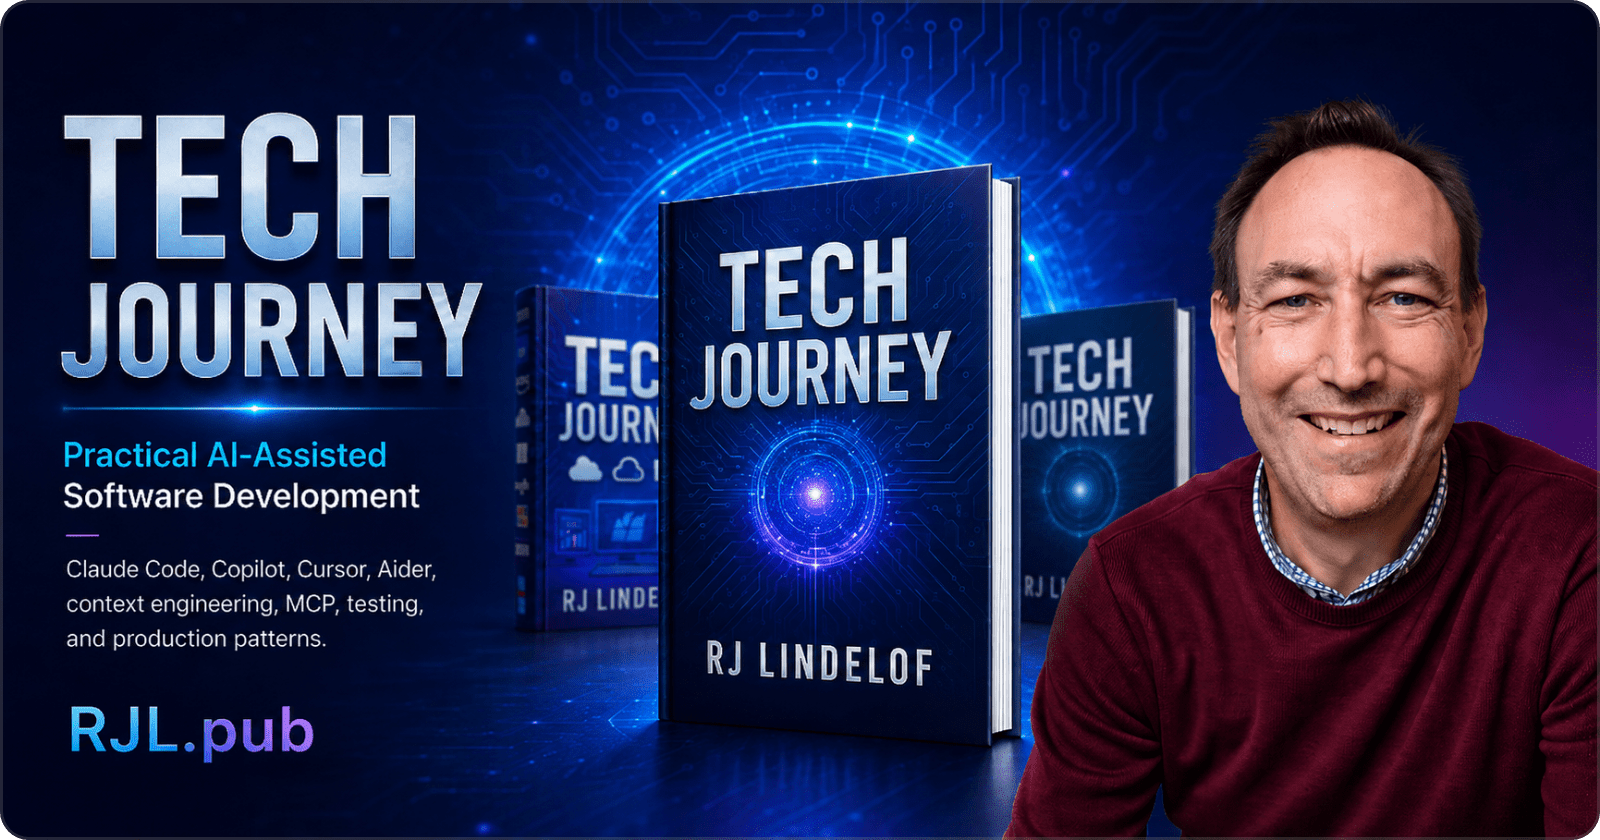
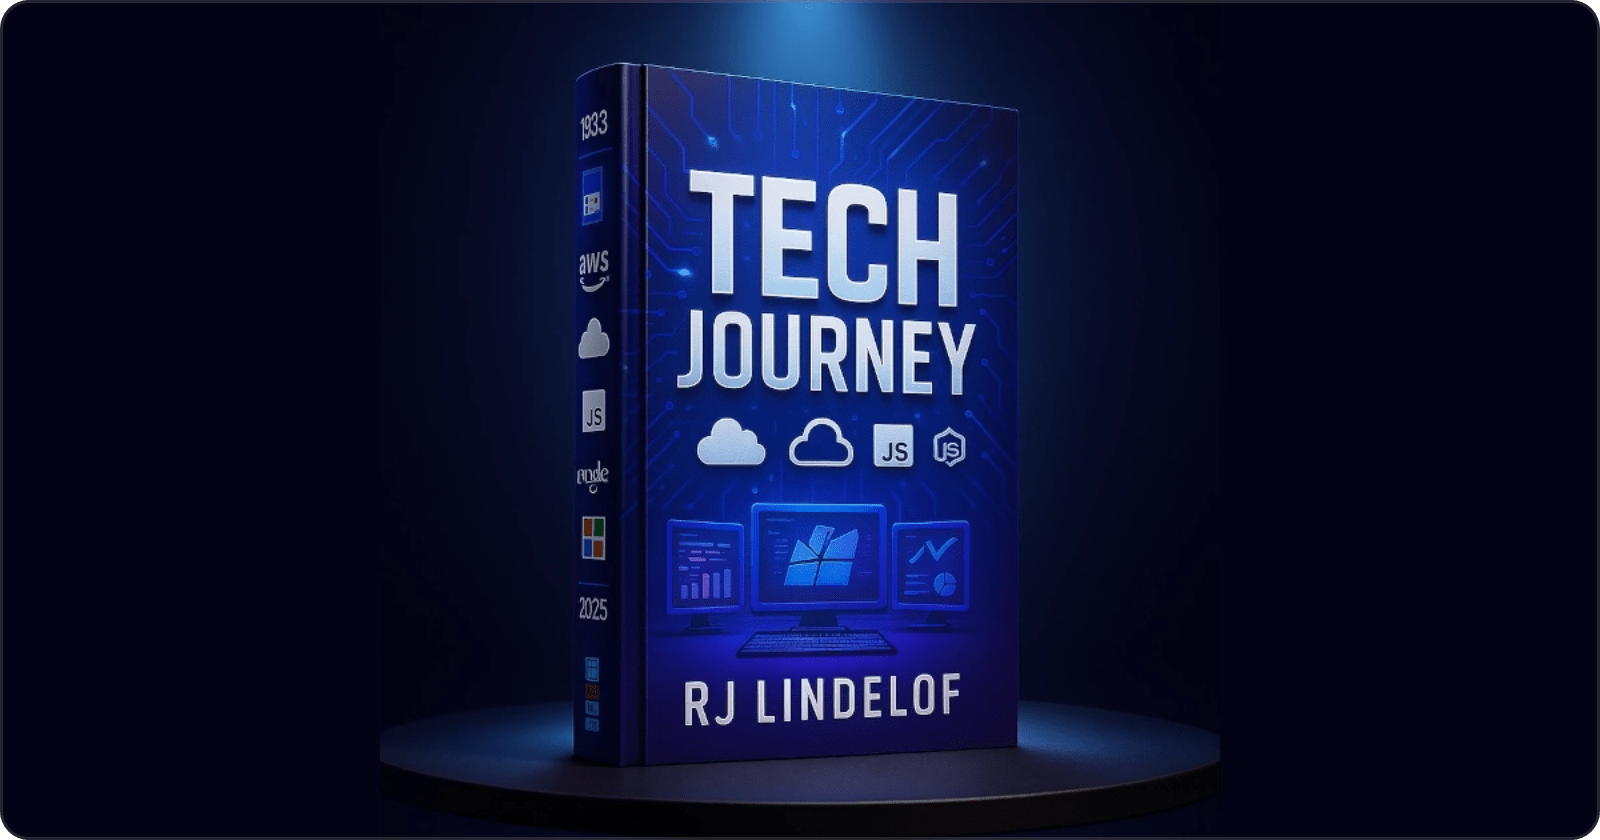
[1.0.3] - 10-08-2026 at 6:21pm
- Dropped a vendor-specific AI coding tool from the intro's CI/CD tool list and from the Tech Journey blurb, so the profile reads as multi-model rather than tied to one vendor.
- Re-rendered the Tech Journey feature card from RJL.pub's book-cover preview instead of its social preview, whose baked-in tagline named that same tool.

diff --git a/README.md b/README.md
@@ -11,7 +11,7 @@
 
 :fire: 20+ years scaling SaaS platforms across Healthcare, EdTech, and regulated B2B. 13 years as an IC before management (Java, JavaScript, Node, .NET, Delphi, C++) and I still spin up local dev environments, review PRs, and prototype alongside my teams. Player-coach by conviction, not by title.
 
-:zap: I move AI from pilot to production as a delivery system, not a sandbox toolset. Claude Code, GitHub Copilot, AWS Kiro, and GitHub Actions run as first-class CI/CD stages. Multi-model fluency, no single-vendor dependency. Recent operating indicators from leading SaaS engineering through an AI-native transformation: 5x deploy frequency, 23% PR throughput gain, code coverage from under 10% to 40% with no dedicated QA team, new-engineer onboarding cut 70%.
+:zap: I move AI from pilot to production as a delivery system, not a sandbox toolset. GitHub Copilot, AWS Kiro, and GitHub Actions run as first-class CI/CD stages. Multi-model fluency, no single-vendor dependency. Recent operating indicators from leading SaaS engineering through an AI-native transformation: 5x deploy frequency, 23% PR throughput gain, code coverage from under 10% to 40% with no dedicated QA team, new-engineer onboarding cut 70%.
 
 :shield: Compliance under regulated weight: HIPAA, SOC 2, ISO 27001, HL7/FHIR, Epic EMR integration. Federal-grade reliability shipped to the VA and the White House Medical Unit.
 
@@ -43,7 +43,7 @@ A multi-site network covering leadership philosophy, AI strategy, platform moder
 
 ## :books: Tech Journey
 
-My long-form guide to AI-native development: Claude Code, agentic workflows, MCP, context and intent engineering, evals, and the production patterns that make AI actually ship. Click the image to start reading.
+My long-form guide to AI-native development: agentic workflows, MCP, context and intent engineering, evals, and the production patterns that make AI actually ship. Click the image to start reading.
 
 <a href="https://rjl.pub/"><img src="assets/cards/rjl-pub.png" alt="Tech Journey by RJ Lindelof: practical AI-assisted software development, at RJL.pub." width="100%"></a>
 

diff --git a/CHANGELOG.md b/CHANGELOG.md
@@ -1,5 +1,10 @@
 # Changelog
 
+## [1.0.3] - 10-08-2026 at 6:21pm
+
+- Dropped a vendor-specific AI coding tool from the intro's CI/CD tool list and from the Tech Journey blurb, so the profile reads as multi-model rather than tied to one vendor.
+- Re-rendered the Tech Journey feature card from RJL.pub's book-cover preview instead of its social preview, whose baked-in tagline named that same tool.
+
 ## [1.0.2] - 10-08-2026 at 6:05pm
 
 - Refreshed the Jimmy Ketchup humor card from the site's new OG image ("Small packet. Big adventures.") and updated its alt text to match.
